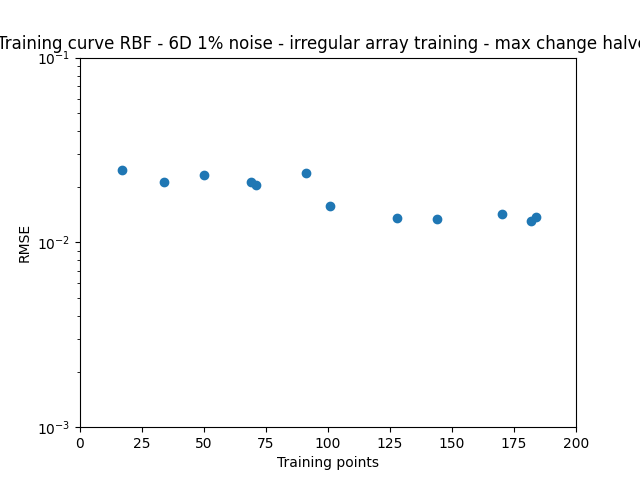
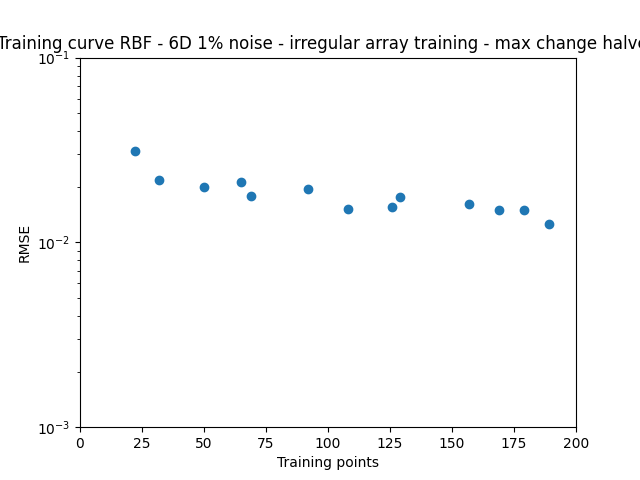
Investigate different training schemes

diff --git a/analysis/gp_diagnosis.py b/analysis/gp_diagnosis.py
@@ -16,11 +16,11 @@ from regular_array_sampling.functions import regular_array_monte_carlo
 
 noise = 0.01
 # create array of sampled regular array layouts
-cand_points = regular_array_monte_carlo(10000)
+cand_points = regular_array_monte_carlo(50000)
 # create testing points
-X_test, y_test = create_testing_points(noise)
+X_test, y_test = create_testing_points_regular(noise)
 
-n_target = 60
+n_target = 50
 
 # create training points
 X_train, y_train, n_train = \
@@ -32,13 +32,16 @@ kernel = 1.0 ** 2 * RBF(length_scale=[1., 1., 1., 1., 1., 1.]) \
 pipe = Pipeline([('scaler', StandardScaler()),
                 ('gp', GaussianProcessRegressor(kernel=kernel,
                     n_restarts_optimizer=20))])
-pipe.fit(X_train, y_train-0.88)
+pipe.fit(X_train, y_train)
 y_predict = pipe.predict(X_test)
-mse = mean_squared_error(y_test-0.88, y_predict)
+mse = mean_squared_error(y_test, y_predict)
 # report rmse
 print(n_train, np.sqrt(mse))
 
-max_error = np.max(np.abs((y_predict - (y_test - 0.88))/y_test))
+default_mse = mean_squared_error(y_test, np.zeros(len(y_test)))
+print(np.sqrt(default_mse))
+
+max_error = np.max(np.abs((y_predict - y_test)/(y_test+0.88)))
 
 fig = plt.figure(figsize=(12.0, 5.0))
 turbine1 = fig.add_subplot(1, 3, 1)
@@ -52,10 +55,13 @@ turbine3.set_xlabel('x_3 (D m)')
 turbine3.set_ylabel('y_3 (D m)')
 
 x = turbine1.scatter(X_test[:, 0], X_test[:, 1],
-                 c=(y_predict - (y_test - 0.88))/y_test,cmap=Geyser_3.mpl_colormap, vmin=-0.1, vmax=0.1)
+                 c=(y_predict - y_test)/(y_test+0.88),cmap=Geyser_3.mpl_colormap, vmin=-0.1, vmax=0.1)
+turbine1.scatter(X_train[:, 0], X_train[:, 1], c='black')
 turbine2.scatter(X_test[:, 2], X_test[:, 3],
-                 c=(y_predict - (y_test - 0.88))/y_test,cmap=Geyser_3.mpl_colormap,  vmin=-0.1, vmax=0.1)
+                 c=(y_predict - y_test)/(y_test+0.88),cmap=Geyser_3.mpl_colormap,  vmin=-0.1, vmax=0.1)
+turbine2.scatter(X_train[:, 2], X_train[:, 3], c='black')
 turbine3.scatter(X_test[:, 4], X_test[:, 5],
-                 c=(y_predict - (y_test - 0.88))/y_test,cmap=Geyser_3.mpl_colormap,  vmin=-0.1, vmax=0.1)
+                 c=(y_predict - y_test)/(y_test+0.88),cmap=Geyser_3.mpl_colormap,  vmin=-0.1, vmax=0.1)
+turbine3.scatter(X_train[:, 4], X_train[:, 5], c='black')
 plt.colorbar(x)
-plt.savefig('analysis/GP_machine_learning_plots/GP_error_regular_training.png')
+plt.savefig('analysis/GP_machine_learning_plots/GP_error_regular_training_4Dmaximin_max_change_halved.png')

diff --git a/analysis/training_curve_6D.py b/analysis/training_curve_6D.py
@@ -25,11 +25,11 @@ n = 0
 n_target = 0
 n_train = 0
 while n_train < 200:
-    n_target = 100 +100*n
+    n_target = 10 +10*n
 
     # create training points
     X_train, y_train, n_train = \
-        create_training_points_irregular(n_target, noise)
+        create_training_points_regular_maxi4d(n_target, noise)
 
     # fit GP regression and calculate rmse
     kernel = 1.0 ** 2 * RBF(length_scale=[1., 1., 1., 1., 1., 1.]) \
@@ -50,8 +50,8 @@ plt.scatter(rmse[:, 0], rmse[:, 1])
 plt.yscale('log')
 plt.ylim([1e-3, 1e-1])
 plt.xlim([0, 200])
-plt.title('Training curve RBF - 6D 1% noise - irregular array training - max change halved')
+plt.title('Training curve RBF - 6D 1% noise - regular array training - max change halved')
 plt.ylabel('RMSE')
 plt.xlabel('Training points')
 plt.savefig('analysis/GP_machine_learning_plots/\
-gp_training_curve_RBF_irregular_training_maxchangehalved.png')
+gp_training_curve_RBF_regular_training_4Dmaximin_maxchangehalved.png')
